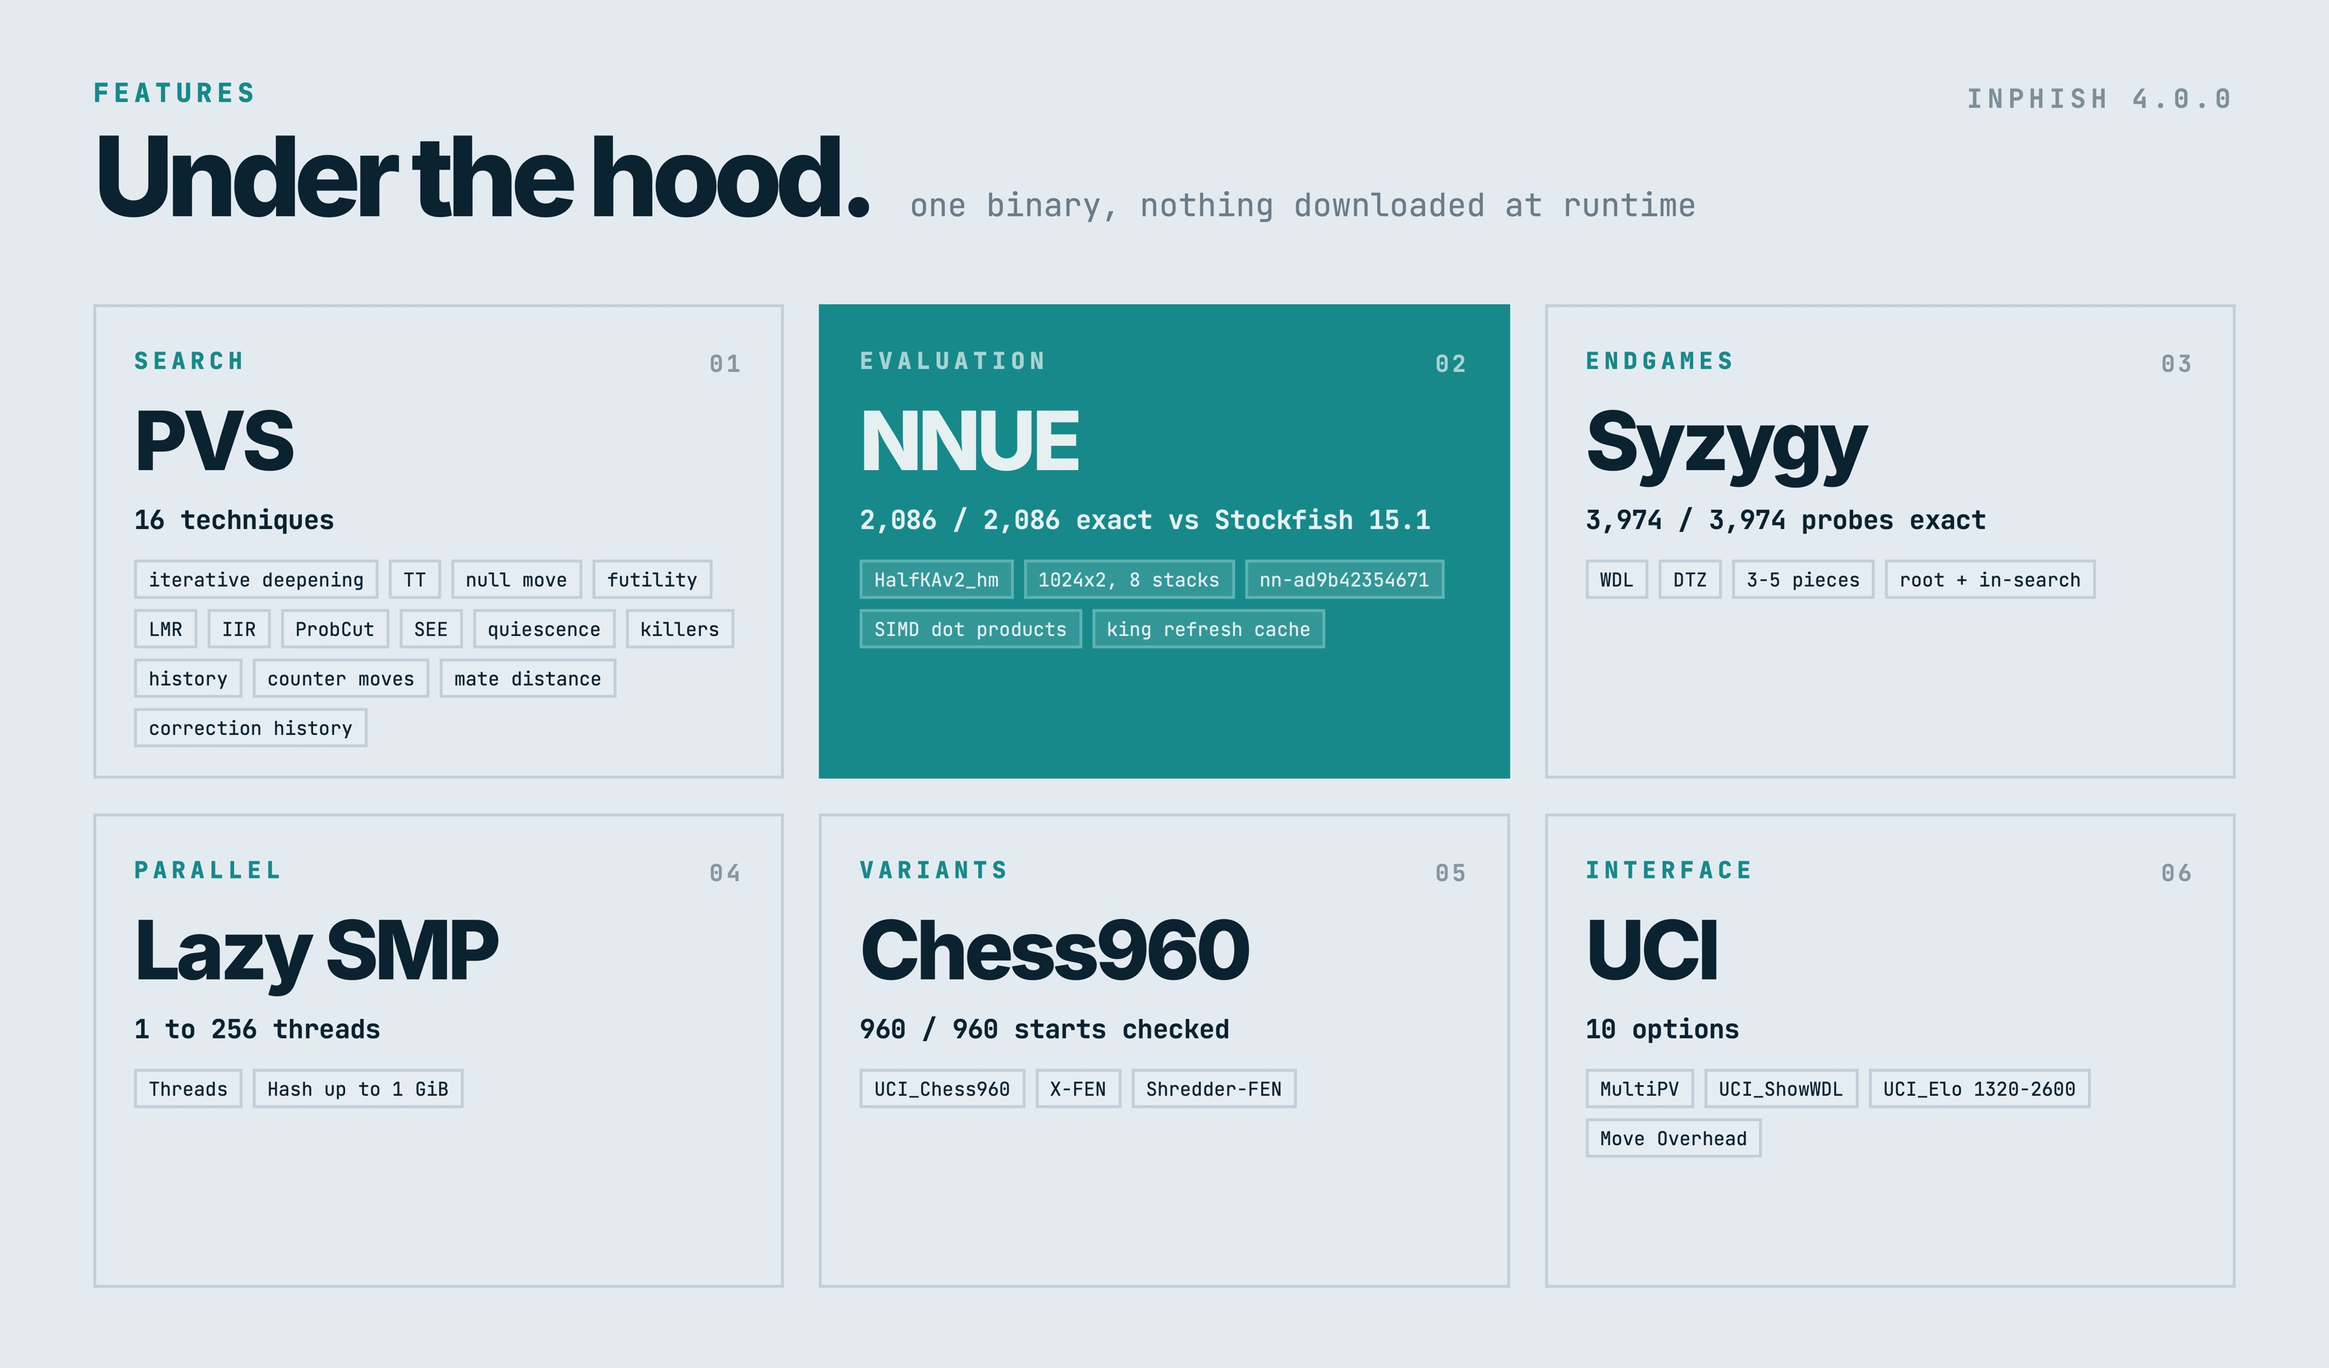
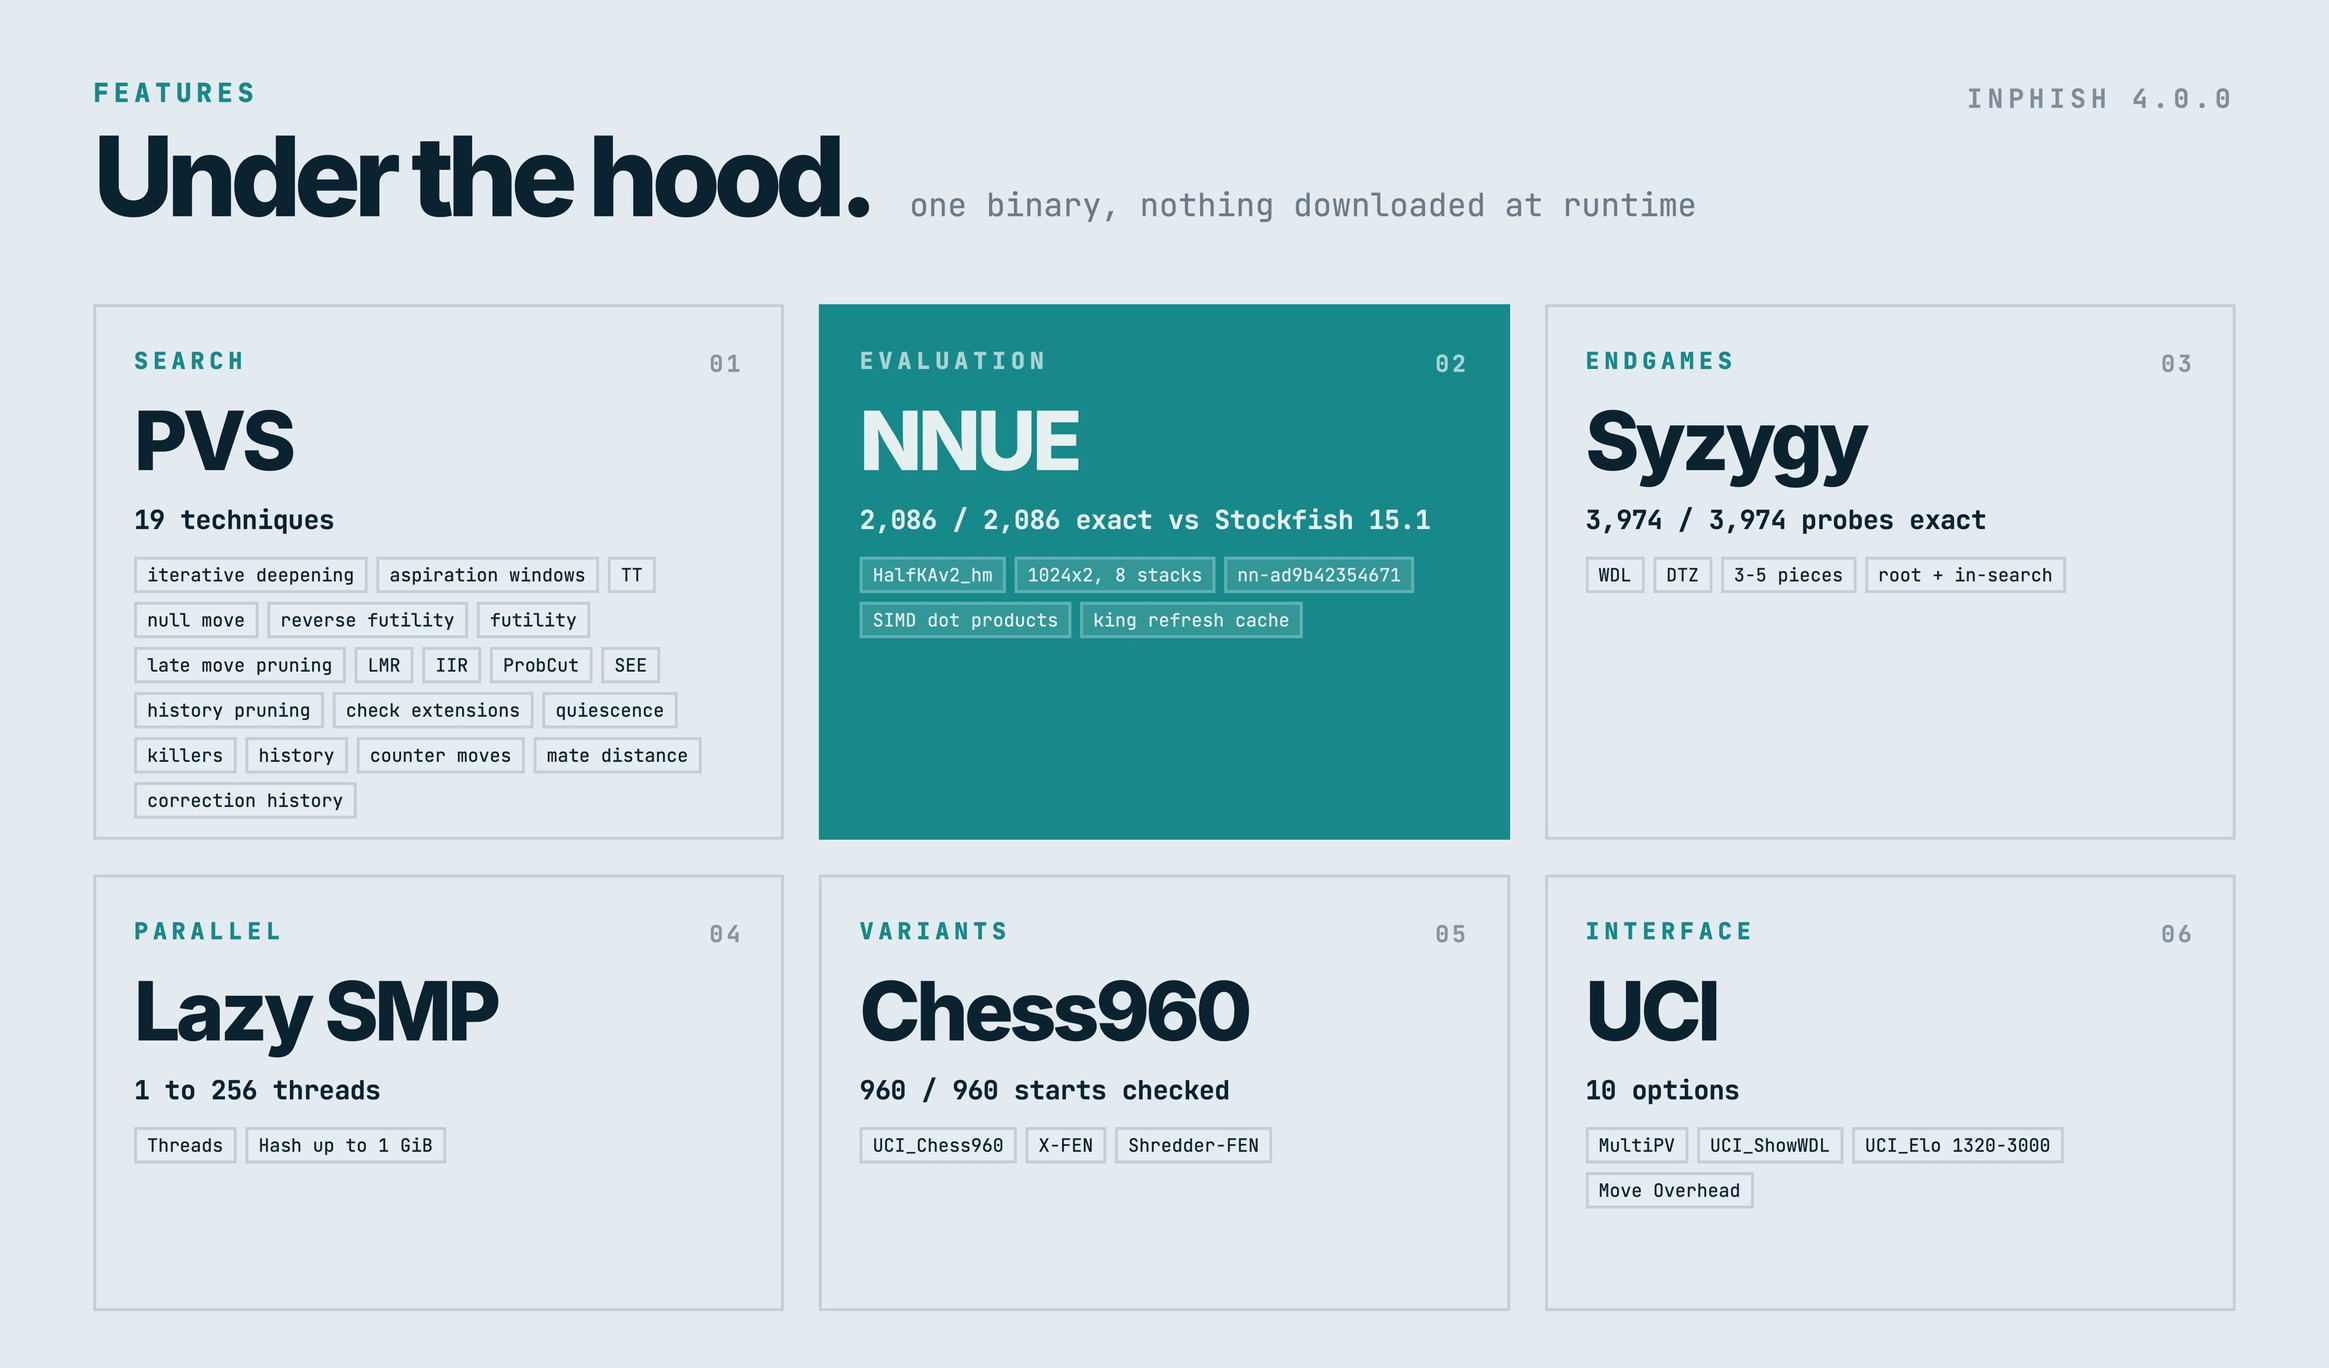
Update the docs and figures for the 3000 UCI_Elo ceiling
The options and features figures show the 1320 to 3000 range, the
features figure lists all nineteen search techniques it counts, and the
build figure and README say that eval prints the hand-written
evaluation, which play no longer uses.

diff --git a/docs/ARCHITECTURE.md b/docs/ARCHITECTURE.md
@@ -12,4 +12,4 @@ Position history is reserved before play and stores full states for exact unmake
 
 The UCI controller reads input on a dedicated thread and runs search on a separate large-stack thread. The controller alone writes to stdout. A stop flag interrupts the search; only the last fully completed iteration can replace the chosen move. The clock has soft and hard limits. A nearly exhausted clock is answered on the controller thread by a 1,000-node search, about a millisecond, so thread setup cannot consume the remaining time. With `Threads` above one the search is Lazy SMP: helper threads run their own iterative deepening on the same position, starting at depth 1 or 2 and with their own history tables, and share only the transposition table and a node counter. The main thread alone manages time, reports, and picks the move, and stops the helpers when it finishes.
 
-The search keeps one network accumulator and one move list per ply. Each move derives the next accumulator from the previous by the features it removes and adds, and a king move refreshes its own side's perspective through the cache. The static evaluation takes the network's material-adjusted output, scales it by remaining material and damps it by the fifty-move counter as Stockfish 15.1 does without its optimism term, and converts it at 208 internal units per pawn. With `SyzygyPath` set and a root position of at most the tables' piece count and no castling rights, the root moves are ranked by DTZ as in Stockfish, only the best-ranked ones are searched, and the tablebase result is reported unless a mate is found. Otherwise the search probes WDL at nodes just after a capture or pawn move and returns decided wins, losses and draws, storing them in the transposition table. The search scores from the side-to-move perspective. From depth 5 each iteration starts with a 25-centipawn aspiration window around the previous score and doubles it on a fail, falling back to a full window. Checks extend by one ply. Windows are clipped to the mate distances reachable from the current ply. The transposition table is probed before any move is generated. Non-PV nodes use reverse futility pruning and null-move pruning when the side to move has a piece, both reading the stored score instead of the static evaluation where its bound makes it the tighter estimate, then ProbCut from depth 5: a capture that beats beta by 200 in quiescence and then at four plies less depth ends the node. Nodes without a stored move from depth 4 are searched a ply shallower. Near the leaves, late move pruning, futility pruning, history pruning and static-exchange pruning skip quiet moves, and static-exchange pruning skips captures that lose too much material. Late quiet moves are searched at a logarithmically reduced depth, two plies less at nodes expected to fail high, and re-searched when they beat alpha. Moves are ordered by the table move, captures that do not lose material by static exchange evaluation, two killers, a counter move for the previous move's piece and destination, butterfly history plus a one-ply continuation history keyed by the same previous move, and finally losing captures. A per-side pawn-structure correction history adds the average error that searches found for the current pawn structure to the static evaluation used for pruning and stand-pat. With `UCI_LimitStrength` on, the search caps its nodes at 200 for the lowest `UCI_Elo`, doubling every 240 Elo, searches at least four lines, and chooses among them the way Stockfish's skill level does: each line's score is raised in proportion to its gap from the best line plus a random share of the score spread, both scaled by a weakness that falls linearly to nothing at the top setting. With `MultiPV` above one, each later line searches the root moves not heading an earlier line once the first line of the depth completes. A single repetition inside the search is scored as a draw. Quiescence searches captures and promotions that do not lose material and whose victim could lift the stand-pat score within 200 centipawns of alpha, or all legal evasions while in check, and probes and stores the transposition table at depth zero. The transposition table uses four entries per 64-byte cluster. Its atomic key is XORed with the packed entry so an inconsistent concurrent read is unlikely to match the full position key. Entries persist across UCI searches and are replaced when the hash is resized or cleared. It reports mate distance, nodes, hash occupancy, elapsed time, and a principal variation. The deterministic bench searches 50 fixed positions at depth 4 with no clock limit and a fresh table per position.
+The search keeps one network accumulator and one move list per ply. Each move derives the next accumulator from the previous by the features it removes and adds, and a king move refreshes its own side's perspective through the cache. The static evaluation takes the network's material-adjusted output, scales it by remaining material and damps it by the fifty-move counter as Stockfish 15.1 does without its optimism term, and converts it at 208 internal units per pawn. With `SyzygyPath` set and a root position of at most the tables' piece count and no castling rights, the root moves are ranked by DTZ as in Stockfish, only the best-ranked ones are searched, and the tablebase result is reported unless a mate is found. Otherwise the search probes WDL at nodes just after a capture or pawn move and returns decided wins, losses and draws, storing them in the transposition table. The search scores from the side-to-move perspective. From depth 5 each iteration starts with a 25-centipawn aspiration window around the previous score and doubles it on a fail, falling back to a full window. Checks extend by one ply. Windows are clipped to the mate distances reachable from the current ply. The transposition table is probed before any move is generated. Non-PV nodes use reverse futility pruning and null-move pruning when the side to move has a piece, both reading the stored score instead of the static evaluation where its bound makes it the tighter estimate, then ProbCut from depth 5: a capture that beats beta by 200 in quiescence and then at four plies less depth ends the node. Nodes without a stored move from depth 4 are searched a ply shallower. Near the leaves, late move pruning, futility pruning, history pruning and static-exchange pruning skip quiet moves, and static-exchange pruning skips captures that lose too much material. Late quiet moves are searched at a logarithmically reduced depth, two plies less at nodes expected to fail high, and re-searched when they beat alpha. Moves are ordered by the table move, captures that do not lose material by static exchange evaluation, two killers, a counter move for the previous move's piece and destination, butterfly history plus a one-ply continuation history keyed by the same previous move, and finally losing captures. A per-side pawn-structure correction history adds the average error that searches found for the current pawn structure to the static evaluation used for pruning and stand-pat. With `UCI_LimitStrength` on, the search caps its nodes at 200 for the lowest `UCI_Elo`, doubling every 240 Elo up to the highest setting of 3000, searches at least four lines, and chooses among them the way Stockfish's skill level does: each line's score is raised in proportion to its gap from the best line plus a random share of the score spread, both scaled by a weakness that falls linearly to nothing at 2600. Above 2600 only the node budget limits play. With `MultiPV` above one, each later line searches the root moves not heading an earlier line once the first line of the depth completes. A single repetition inside the search is scored as a draw. Quiescence searches captures and promotions that do not lose material and whose victim could lift the stand-pat score within 200 centipawns of alpha, or all legal evasions while in check, and probes and stores the transposition table at depth zero. The transposition table uses four entries per 64-byte cluster. Its atomic key is XORed with the packed entry so an inconsistent concurrent read is unlikely to match the full position key. Entries persist across UCI searches and are replaced when the hash is resized or cleared. It reports mate distance, nodes, hash occupancy, elapsed time, and a principal variation. The deterministic bench searches 50 fixed positions at depth 4 with no clock limit and a fresh table per position.

diff --git a/CHANGELOG.md b/CHANGELOG.md
@@ -5,7 +5,7 @@
 - NNUE evaluation with Stockfish 15.1's HalfKAv2_hm network `nn-ad9b42354671` (GPL-3.0) in place of Stockfish 13's `nn-62ef826d1a6d`: king-bucketed, mirrored features including the kings, a 1024-wide accumulator with eight piece-square buckets, pairwise-multiplied inputs and eight layer stacks. inphish's inference matches Stockfish 15.1 exactly on 2,086 reference positions, plain and material-adjusted. King moves refresh through a per-thread cache of accumulators by king square. The binary grows to about 48 MB. The static evaluation follows Stockfish 15.1's scaling without its optimism term, and no longer falls back to the hand-written evaluation in bare endings.
 - Faster search with the play unchanged: moves are generated into one list per ply, the transposition table is probed before moves are generated, and the network's hidden layers are computed four rows at a time. Fixed-depth searches ran at 2.07 million nodes per second on an Apple M2 against 1.55 million before, with the old network.
 - Search: the stored score replaces the static evaluation for pruning where its bound makes it tighter; internal iterative reductions; history and static-exchange pruning near the leaves; delta pruning in quiescence; two plies more reduction at expected cut nodes; ProbCut. Capture history and a second continuation history were tried and dropped.
-- The `UCI_Elo` node budget is now 200 nodes at the lowest setting, doubling every 240 Elo; against Stockfish 19 at the same setting it scored 14/20 at 1600 and 13/20 at 2200. The win/draw/loss model was refitted to the new network.
+- `UCI_Elo` now reaches 3000, up from 2600, and its node budget is 200 nodes at the lowest setting, doubling every 240 Elo. Moves are weakened as before up to 2600; above it only the node budget limits play. Against Stockfish 19 at the same setting it scored 14/20 at 1600, 13/20 at 2200, 8/20 at 2800 and 9.5/20 at 3000. The win/draw/loss model was refitted to the new network.
 - `tests/openings/random8.epd` adds 300 balanced random openings from `tools/random_openings.py` for development matches.
 - Checks at 1+0.01, Hash 16 MiB, one thread: 32/40 against 3.1.2 (25 W / 1 L / 14 D); 20/20 against Morstilia 6.0.0, all checkmates; 20/20 against MaiEngine, 11 of them MaiEngine time forfeits; Stockfish 19 at `UCI_Elo` 2800, 3000 and 3190: 17.5, 13.5 and 9.5 of 20 (3.0.0: 11 and 5.5 at 2800 and 3000), a ladder fit of 3149 ± 102 against 2835 ± 97 for 3.0.0; Chess960 against Stockfish at 2800: 12.5/20 (3.0.0: 9/20). No inphish time losses or illegal moves. Small samples, not Elo measurements.
 - Depth-4 bench signature: 66999 nodes.

diff --git a/docs/TESTING.md b/docs/TESTING.md
@@ -194,7 +194,7 @@ Changes meant only to make the search faster were accepted when the depth-4 benc
 | Cut-node reductions and ProbCut, `5582e0c` | random 61-80 | 13 | 12 | 15 | 20.5 | |
 | The same, second batch | random 81-100 | 11 | 7 | 22 | 22.0 | yes, 42.5 of 80 |
 
-These are directional checks, not Elo measurements; the kept pruning changes cleared the threshold narrowly. With the new network the `UCI_Elo` limiter was too strong, 17 of 20 at 1600 and 15.5 at 2200 against Stockfish 19 at the same setting, so its node budget went from 600 to 200 at the lowest setting, which scored 14 of 20 at 1600 (14 wins, 6 losses) and 13 at 2200 (11 wins, 5 losses, 4 draws). The win, draw and loss model was refitted to 18,808 evaluations from 160 games between builds with the new network. At 1+0.01 the candidate ended its games with 0.13 seconds of its clock on average and never less than 0.03, so time management was left as it was.
+These are directional checks, not Elo measurements; the kept pruning changes cleared the threshold narrowly. With the new network the `UCI_Elo` limiter was too strong, 17 of 20 at 1600 and 15.5 at 2200 against Stockfish 19 at the same setting, so its node budget went from 600 to 200 at the lowest setting, which scored 14 of 20 at 1600 (14 wins, 6 losses) and 13 at 2200 (11 wins, 5 losses, 4 draws). With the engine now far above the old 2600 limit, the highest setting was raised to 3000. Letting the move weakening run out at 3000 instead of 2600 made the curve too steep, 5 of 20 at 1600 and 15 at 2200, so the weakening still runs out at 2600 and above it only the node budget grows. The settings up to 2600 then behave exactly as calibrated above, and the new range scored 8 of 20 at 2800 (6 wins, 10 losses, 4 draws) and 9.5 at 3000 (8 wins, 9 losses, 3 draws). The win, draw and loss model was refitted to 18,808 evaluations from 160 games between builds with the new network. At 1+0.01 the candidate ended its games with 0.13 seconds of its clock on average and never less than 0.03, so time management was left as it was.
 
 ## 4.0 candidate checks
 

diff --git a/README.md b/README.md
@@ -39,7 +39,7 @@ On macOS, a downloaded binary may need `xattr -d com.apple.quarantine inphish` b
 | `Move Overhead` | 20 | Milliseconds reserved per move for GUI and network lag |
 | `MultiPV` | 1 | Number of principal variations, 1 to 256 |
 | `UCI_LimitStrength` | false | Enables `UCI_Elo` |
-| `UCI_Elo` | 2600 | 1320 to 2600, approximate |
+| `UCI_Elo` | 3000 | 1320 to 3000, approximate |
 | `UCI_ShowWDL` | false | Adds win/draw/loss estimates to `info` output |
 | `UCI_Chess960` | false | Chess960 castling and FEN handling |
 | `SyzygyPath` | empty | One or more table directories, separated by `:` (`;` on Windows) |
@@ -113,7 +113,7 @@ target/release/inphish bench
 target/release/inphish perft 4 --fen "r3k2r/p1ppqpb1/bn2pnp1/3PN3/1p2P3/2N2Q1p/PPPBBPPP/R3K2R w KQkq - 0 1"
 ```
 
-`perft` counts leaf positions, `divide` prints counts by root move, `d` prints the board and position state, and `bench` searches 50 fixed positions at depth 4. The command-line FEN must be quoted as one argument. The depth-4 bench signature is `66999` nodes.
+`perft` counts leaf positions, `divide` prints counts by root move, `d` prints the board and position state, `eval` prints the hand-written evaluation, which play no longer uses since 4.0.0, and `bench` searches 50 fixed positions at depth 4. The command-line FEN must be quoted as one argument. The depth-4 bench signature is `66999` nodes.
 
 </details>
 
